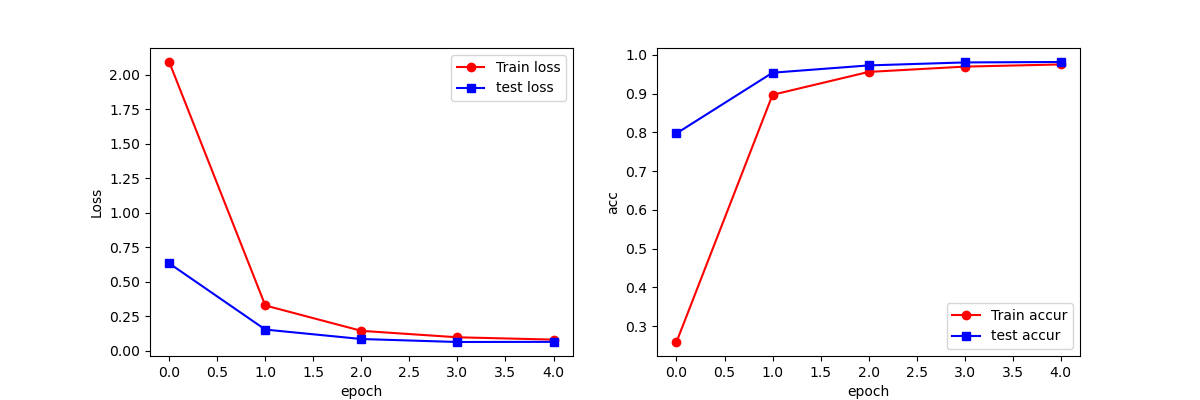
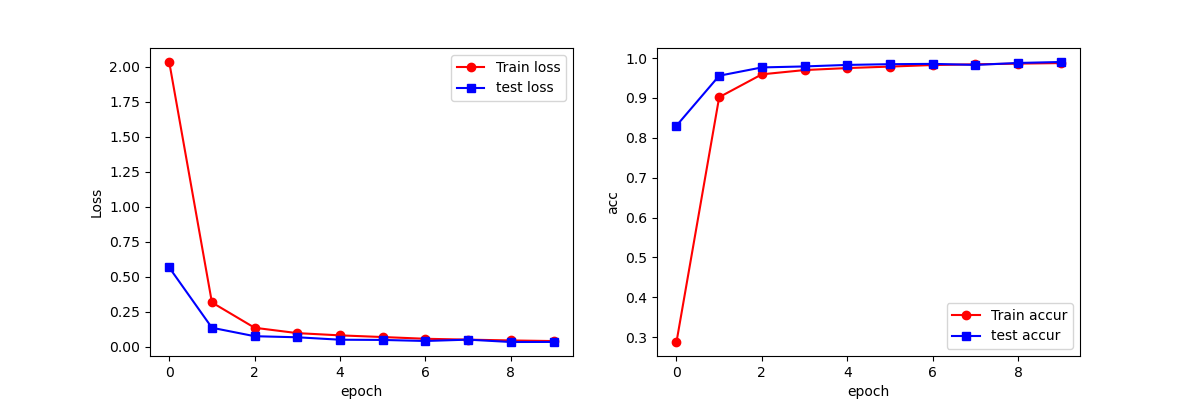
MNIST result

diff --git a/MNIST+.py b/MNIST+.py
@@ -18,7 +18,8 @@ import numpy as np
 import os
 from modules.MNISTmodule import vgg
 
-def train_epoch(epoch, model, traindata, criterion, optimizer, device,scheduler):
+
+def train_epoch(epoch, model, traindata, criterion, optimizer, device, scheduler):
     model.train()
     true = []
     pre = []
@@ -73,7 +74,7 @@ def test_epoch(epoch, model, testdata, criterion, device):
     return Accuracy, Precision, Recall, F1Score, Loss
 
 
-def plot_draw(train_loss,test_loss,train_accur,test_accur,epoch,output_path):
+def plot_draw(train_loss, test_loss, train_accur, test_accur, epoch, output_path):
     # 下面的是画图过程，将上述存放的列表  画出来即可
     print(range(epoch + 1))
     print(train_loss)
@@ -97,6 +98,7 @@ def plot_draw(train_loss,test_loss,train_accur,test_accur,epoch,output_path):
     plt.savefig(output_path + 'val.png')
     plt.show()
 
+
 def train(opt, device):
     print("start training\n")
     batch_size = opt.batch_size
@@ -118,8 +120,6 @@ def train(opt, device):
                 del weights_dict[k]
         print(model.load_state_dict(weights_dict, strict=False))
 
-
-
     train_loader = torch.utils.data.DataLoader(
         torchvision.datasets.MNIST('./data/', train=True, download=True,
                                    transform=torchvision.transforms.Compose([
@@ -140,7 +140,7 @@ def train(opt, device):
     print("using {} device.".format(device))
 
     traindata = train_loader
-    testdata=test_loader
+    testdata = test_loader
     examples = enumerate(test_loader)
     batch_idx, (example_data, example_targets) = next(examples)
     # print(example_targets)
@@ -155,8 +155,6 @@ def train(opt, device):
     #     plt.xticks([])
     #     plt.yticks([])
     # plt.show()
-
-
 
     criterion = nn.CrossEntropyLoss().to(device)
     optimizer = optim.SGD(model.parameters(), lr=lr, momentum=0.9)  # 优化器
@@ -174,7 +172,6 @@ def train(opt, device):
     log_list_path = opt.output_path + "/log_list.txt"
     if os.path.exists(log_list_path):  # 如果log_eval.txt在存储之前存在则删除，防止后续内容冲突
         os.remove(log_list_path)
-
 
     train_loss = []  # 存放训练集损失的数组
     train_accur = []  # 存放训练集准确率的数组
@@ -227,14 +224,12 @@ def train(opt, device):
     plot_draw(train_loss, test_loss, train_accur, test_accur, epoch, output_path)
 
 
-
-
 def main():
     parse = argparse.ArgumentParser(description="classification")
     parse.add_argument("--batch_size", type=int, default=256)
     parse.add_argument("--lr", type=int, default=0.001)
     parse.add_argument("--lrf", type=int, default=0.01)
-    parse.add_argument("--epoch", type=int, default=5)
+    parse.add_argument("--epoch", type=int, default=10)
     parse.add_argument("--weight", type=str, default="")
     # parse.add_argument("--log_eval", type=str, default="output/ViT/log_val.txt")
     # parse.add_argument("--log_list", type=str, default="output/ViT/log_list.txt")
@@ -255,5 +250,3 @@ def main():
 
 if __name__ == '__main__':
     main()
-
-
